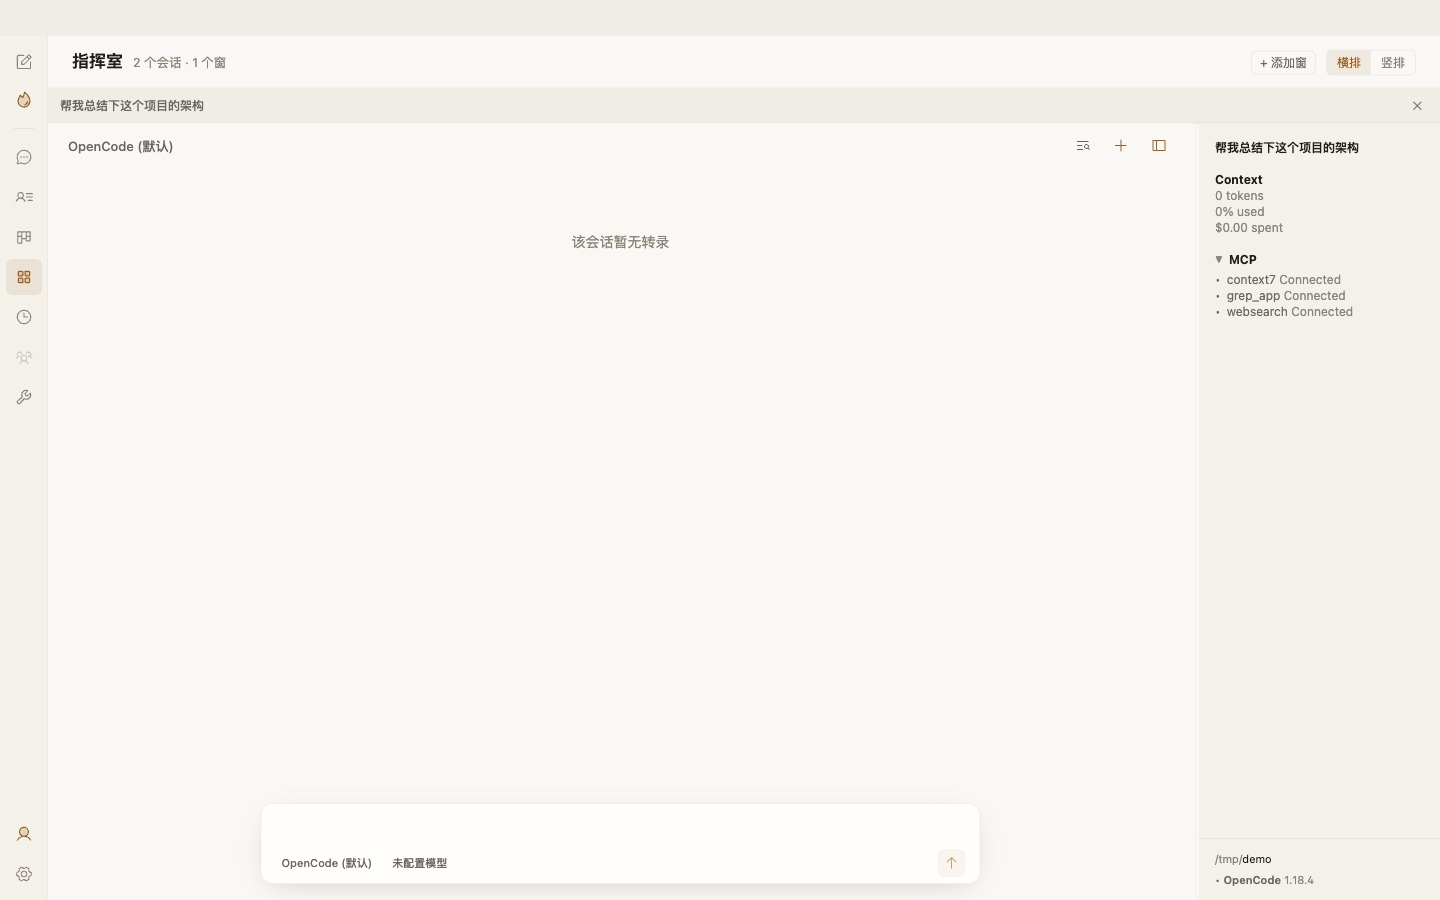
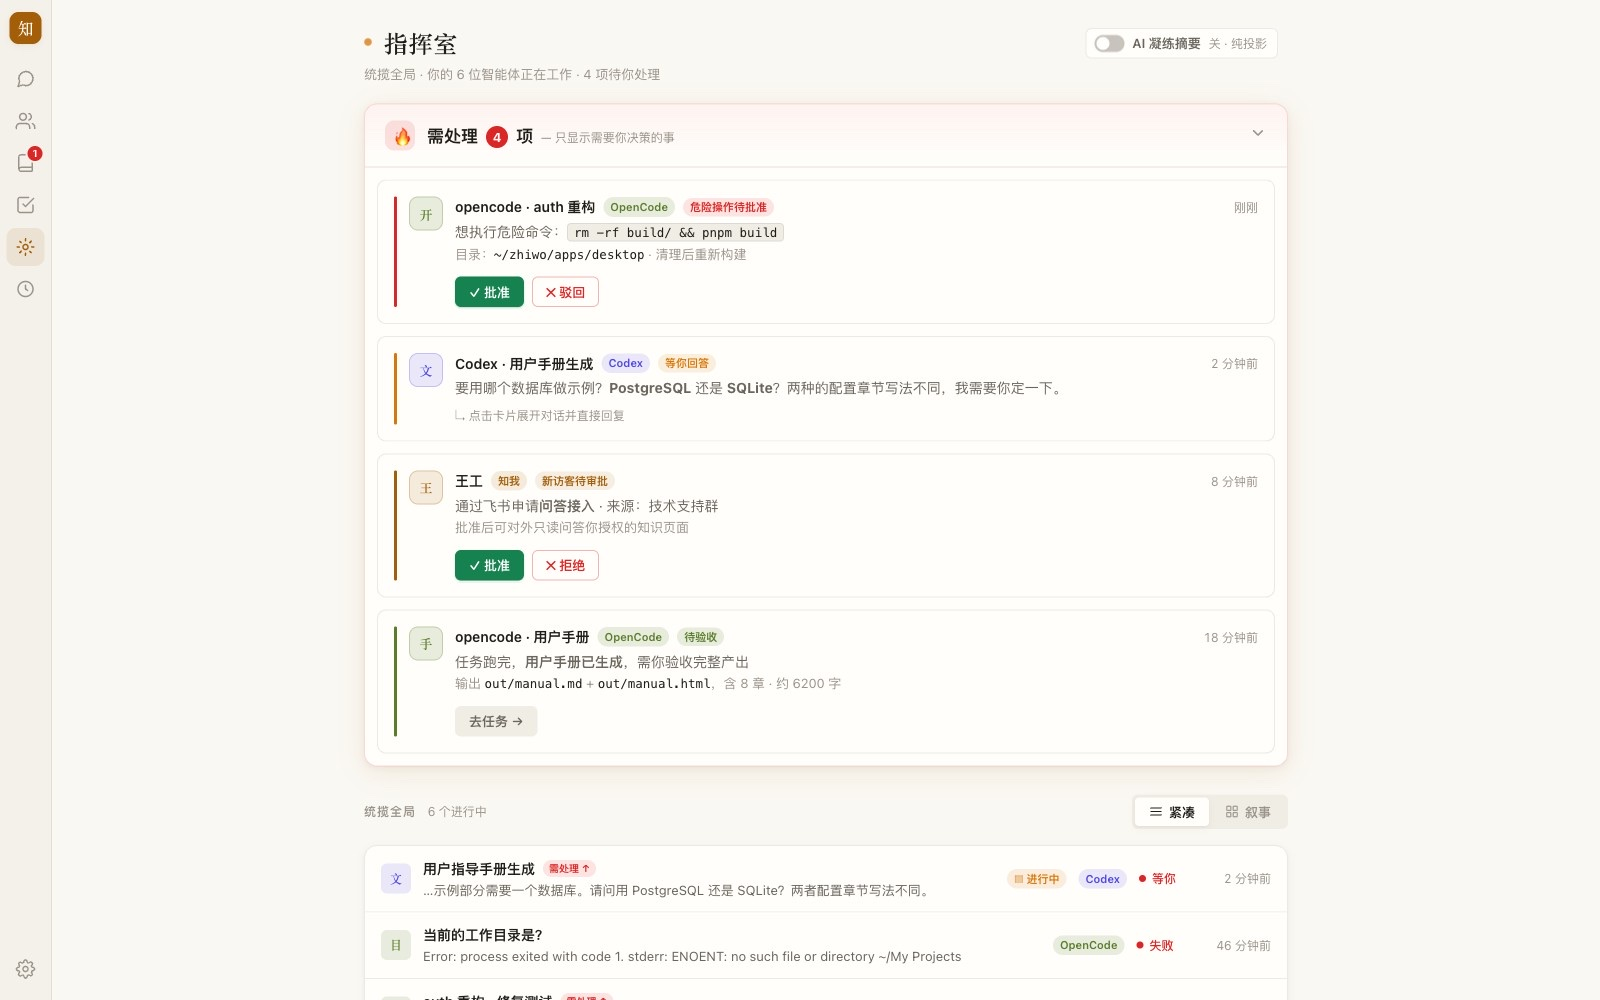
site+docs: bump to v0.10.0 + command-center redesign
site:
- bump landing page + meta.json to v0.10.0 (2026-08-06)
- replace 多窗指挥室 wording with 指挥室（收件箱+统揽+凝练） in feature card + pricing
- update v0.10.0 announcement banner (指挥室重设计 + 只读外部文件)

docs:
- rewrite fleet/command-center: 需处理收件箱 + 全局统揽 + 可选 LLM 凝练
  (drop removed multi-window pin/tiling/HUD; point 并排看多会话 to 多面板分屏)
- fix 指挥室 wording in agent-fleet overview table + messages pager
- reshoot fleet-command-center.jpg from approved prototype (1600w)

diff --git a/site/index.html b/site/index.html
@@ -1462,7 +1462,7 @@
           <h3>Agent Fleet 智能舰队</h3>
           <p>
             在一个入口下调度本地 opencode / codex —— 派活、盯盘、续聊。
-            <strong>真逐字流式转录、斜杠命令、任务看板（四列 + 定时跨天派发）、多窗指挥室、小队群聊聚合视图</strong>，
+            <strong>真逐字流式转录、斜杠命令、任务看板（四列 + 定时跨天派发）、指挥室（需处理收件箱 + 全局统揽 + 可选 LLM 凝练）</strong>，
             看板↔会话双向跳转、任务抽屉带 token/花费面板，产出一键编回知识库。
             <strong>已 ship 的真实工作台</strong>，非演示外壳。
           </p>
@@ -1489,7 +1489,7 @@
             还能给访客<strong>分配一个通讯录 agent</strong>（把它的工作目录与权限一起交出），
             并为<strong>每位访客单独选应答模型、设会话保留策略</strong>。
             长连接接入，<strong>无需公网 / webhook / 内网穿透</strong>；陌生人先进待审批，你批准才服务。
-            <strong>0.9.0 已 ship</strong>。
+            <strong>已 ship</strong>。
           </p>
           <span class="diff-tag">已 ship · 飞书 1:1 问答 · per-访客身份/模型可控</span>
         </div>
@@ -1502,7 +1502,7 @@
             自己的标签页、文件树、AI 右栏。「笔记」和「智能」不再整窗二选一，而是可以并排摆在一起：
             <strong>左边写调研笔记，右边开智能标签把任务派给本地 Claude Code / opencode，一屏之内看它逐字跑。</strong>
             每个面板状态各自记忆，关闭分栏一键还原。
-            <strong>0.9.0 已 ship</strong>。
+            <strong>已 ship</strong>。
           </p>
           <span class="diff-tag">已 ship · 向右分屏 · 面板=完整工作区 · 笔记/智能并排</span>
         </div>
@@ -1593,7 +1593,7 @@
             <li><span class="check">✓</span> Review queue 安全审核（人工把关 AI 写入）</li>
             <li><span class="check">✓</span> 多通道导出（微信公众号 / 小红书规划中）</li>
             <li><span class="check">✓</span> <strong>本地 MCP / localhost API</strong> · 接入 Claude Code / Cursor（本机基础能力免费）</li>
-            <li><span class="check">✓</span> <strong>Agent Fleet 本地工作台</strong>：调度本地 opencode / codex · 流式转录 · 任务看板 · 定时派发 · 多窗指挥室 · 产出编回知识库（本地全功能免费）</li>
+            <li><span class="check">✓</span> <strong>Agent Fleet 本地工作台</strong>：调度本地 opencode / codex · 流式转录 · 任务看板 · 定时派发 · 指挥室（收件箱+统揽+凝练）· 产出编回知识库（本地全功能免费）</li>
             <li><span class="check">✓</span> 接入 OpenAI / Anthropic / Gemini / Ollama / LM Studio · <strong>用户自备 API key 或本地模型</strong> · 免费 / 试用 API 预设一键接入</li>
             <li><span class="check">✓</span> <strong>内置免费模型</strong>：无需自备 key，开箱即用体验 AI 编译（实验性 · 可能限流 · 私密内容请用本地模型）</li>
             <li><span class="check">✓</span> 本地 SQLite · 数据导出永久可用</li>

diff --git a/docs/fleet/command-center.md b/docs/fleet/command-center.md
@@ -1,31 +1,48 @@
 # 指挥室
 
-指挥室是 Agent Fleet 的**实时盯盘面** —— 把多个会话并排钉在一起，一眼盯住多个 agent 同时跑，再配一个全局「需要输入」聚合入口。
+指挥室是 Agent Fleet 的**控制塔** —— 不是逐个点开会话，而是在一个视图里签收待办、纵览全局、按需凝练。它由三块组成：置顶的**需处理收件箱**、下面的**全局统揽区**，以及一个可选的 **LLM「凝练」开关**。
 
-![指挥室：多窗并排的会话面板 + 顶部「N 个 session 等待输入」HUD](/screenshots/fleet-command-center.jpg)
+![指挥室：置顶「需处理收件箱」+ 全局统揽区 + 顶部凝练开关](/screenshots/fleet-command-center.jpg)
 
-## 多窗并排
+## 需处理收件箱
 
-- 从会话列表把任意会话「钉」进指挥室，成为一个并排窗格。
-- **横排 / 竖排**一键切换；窗格间有**可拖拽分隔条**调尺寸。
-- 窗数无固定上限；空间不足时按**先进先出**挤掉最早钉入的窗。
-- 每窗右上角「×」移除；末尾「+」占位新开空窗。
-- 排向、尺寸比例、钉住的会话**持久化**，重启恢复。
+散落在各处、真正**等你动手**的事，聚合到指挥室顶部的「需处理 N 项」区。它只收**三类互不重叠**的待办，并按轻重给不同的处理方式：
 
-## 全局「需要输入」HUD
+| 待办类型 | 怎么处理 |
+|---|---|
+| **权限待批**（agent 想执行危险操作，等你批准） | **就地**批准 / 驳回；也可展开**就地回复**（回复是真派活） |
+| **任务待验收 / 失败**（任务跑完或出错，等你收口） | **跳去**任务 tab 的抽屉（重上下文，在那里验收） |
+| **新访客待审批**（飞书陌生人首次私聊） | **就地**批准 / 拒绝 |
 
-散落在各会话里的权限等待（agent 想执行危险操作、等你批准）会聚合到指挥室顶部：
+一眼扫到"谁在等我"，多数待办不用离开指挥室就能签掉。
 
-- 一个「**N 个 session 等待输入**」pill + 可点进对应会话的分组列表。
-- 让你不必逐个点开会话，就能一眼扫到"谁在等我"。
+::: warning 就地决策 = 你的显式派活
+收件箱里的「批准 / 驳回 / 就地回复」是**你主动做的受控决策**——批准权限、回复 agent 都会真正推进对应会话（走 `sendResume` 派活）。这不同于"自动流程"：指挥室**不会**自己替你发 prompt 或起进程，动作永远由你按下。
+:::
 
-## 铁律：钉住 ≠ 派发
+## 全局统揽区
 
-::: warning pin ≠ dispatch
-把会话钉进指挥室**绝不触发任何派发** —— 不发 prompt、不 resume、不起进程。钉住只是"显示哪些已存在的会话"。派发只能由某个窗格里的输入框显式发送触发。
+收件箱下面，是**所有活跃会话**的一览：
+
+- 以**会话**为单位平铺，带有显式任务（`/task` 建的）的会话会打一个**任务徽标**，标明它在看板里的列状态（待派发 / 进行中 / 待审核 / 已完成）。
+- **密度可切换**：紧凑一览表（一行一个会话，扫得快）↔ 叙事卡（信息更全）。
+
+这一区是纯本地投影——直接读会话已有的预览文本、运行态、todos、错误与产出路径，**零延迟、零 token**。
+
+## 可选 LLM「凝练」（默认关）
+
+在纯投影之上，你可以打开顶部的**「凝练」开关**，让一个**你自己配置的模型**把卡片凝练成三段叙事：**完成了什么 / 还剩什么风险 / 证据在哪**。
+
+- **默认关**：不开就是纯本地投影，一个 token 都不烧。
+- **懒触发 + 缓存**：只凝练你当前**看得见**的卡片，并按内容 hash 缓存，同样内容不重复调用。
+- **单独配置**：凝练用的 provider / model 在设置里**单独指定**，不复用 Wiki 编译的默认模型。
+
+::: tip 凝练是"锦上添花"，不是必需
+关着也完全可用——统揽区的状态、徽标、收件箱待办都不依赖 LLM。凝练只是把"一堆卡片"读成"一段人话"，适合会话多、想快速抓重点时打开。
 :::
 
 ## 接下来
 
 - [消息](/fleet/messages)：单窗深聊的完整能力
 - [任务看板](/fleet/board)：任务视角的进度总览
+- 想同时并排盯多个会话？用[多面板工作区](/core/workspace)向右分屏，各分栏开自己的「智能」标签。

diff --git a/docs/integrate/agent-fleet.md b/docs/integrate/agent-fleet.md
@@ -26,7 +26,7 @@ Agent Fleet 是**已 ship 的真实工作台**，由真实的 `codex app-server`
 |---|---|---|
 | **消息** | session-first 会话列表 + 单窗深聊，逐字流式，斜杠命令，续聊 | [消息](/fleet/messages) |
 | **任务** | 任务看板（待派发 / 进行中 / 待审核 / 已完成）+ 派发时机三选 + 任务抽屉用量面板 | [任务看板](/fleet/board) |
-| **指挥室** | 多窗并排实时盯盘 + 全局「需要输入」聚合 | [指挥室](/fleet/command-center) |
+| **指挥室** | 需处理收件箱（就地签收待办）+ 全局统揽 + 可选 LLM 凝练 | [指挥室](/fleet/command-center) |
 | **定时** | 到点自动派发的 autopilot 子系统 | [定时任务](/fleet/autopilots) |
 | **小队**（开发中） | agent 编组 + 群聊式聚合时间线（暂置灰下线） | [小队](/fleet/squad) |
 | **通讯录** | agent 模板（挂载 MCP / Skills）+ 行动履历动态墙 | 本页下方 |

diff --git a/docs/fleet/messages.md b/docs/fleet/messages.md
@@ -74,5 +74,5 @@ opencode 本地会话直读 opencode 自己的 session（像 opencode TUI 那样
 ## 接下来
 
 - [任务看板](/fleet/board)：把会话组织成可派发、可定时的任务
-- [指挥室](/fleet/command-center)：多窗并排盯多个会话
+- [指挥室](/fleet/command-center)：收件箱签收待办 + 全局统揽
 - [Agent Fleet 总览](/integrate/agent-fleet)
